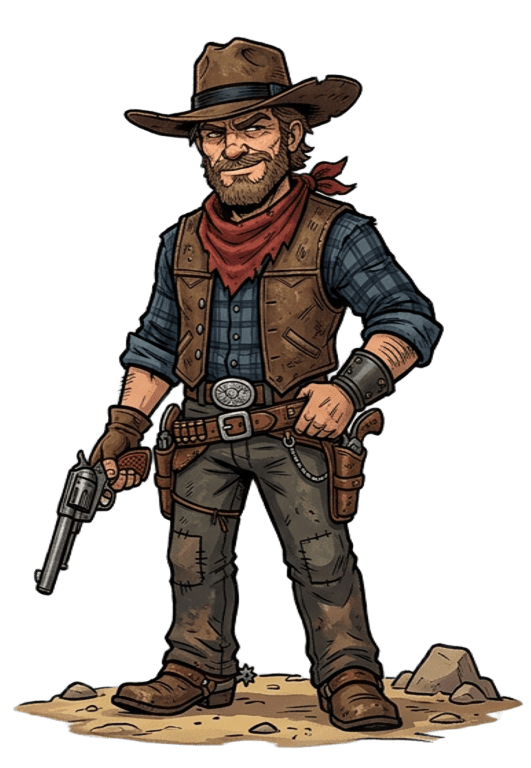
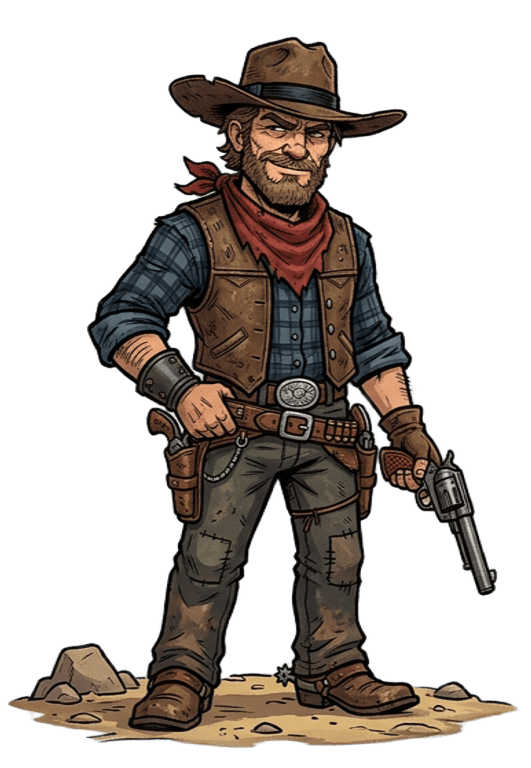
Modified images and character's size

diff --git a/js/entities.js b/js/entities.js
@@ -325,10 +325,10 @@ class Enemy {
         const w = W(), h = H();
         switch(type) {
             case 'terrestre':
-                this.w = Math.min(50, w * 0.06);
-                this.h = Math.min(50, h * 0.08);
+                this.w = Math.min(60, w * 0.06);
+                this.h = Math.min(40, h * 0.08);
                 this.maxHealth = 3;
-                this.speed = 0.5;
+                this.speed = 1;
                 this.gravity = 0.3;
                 this.vx = 0; this.vy = 0;
                 this.onGround = false;
@@ -353,8 +353,8 @@ class Enemy {
                 this.patternTimer = 0;
                 break;
             case 'jefe':
-                this.w = Math.min(90, w * 0.1);
-                this.h = Math.min(110, h * 0.18);
+                this.w = Math.min(210, w * 0.1);
+                this.h = Math.min(140, h * 0.18);
                 this.maxHealth = 10;
                 this.speed = 1.5;
                 this.gravity = 0.3;
